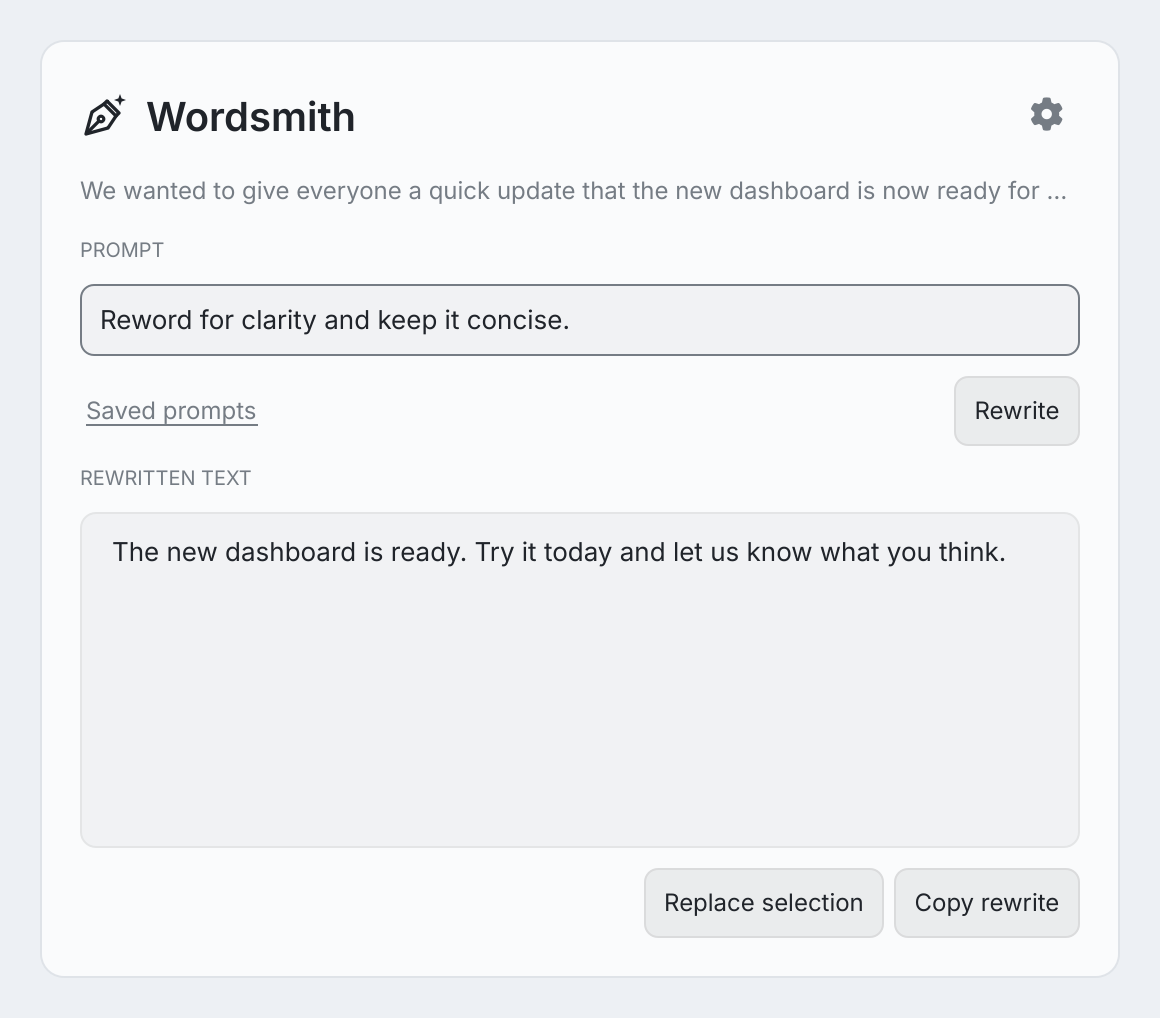
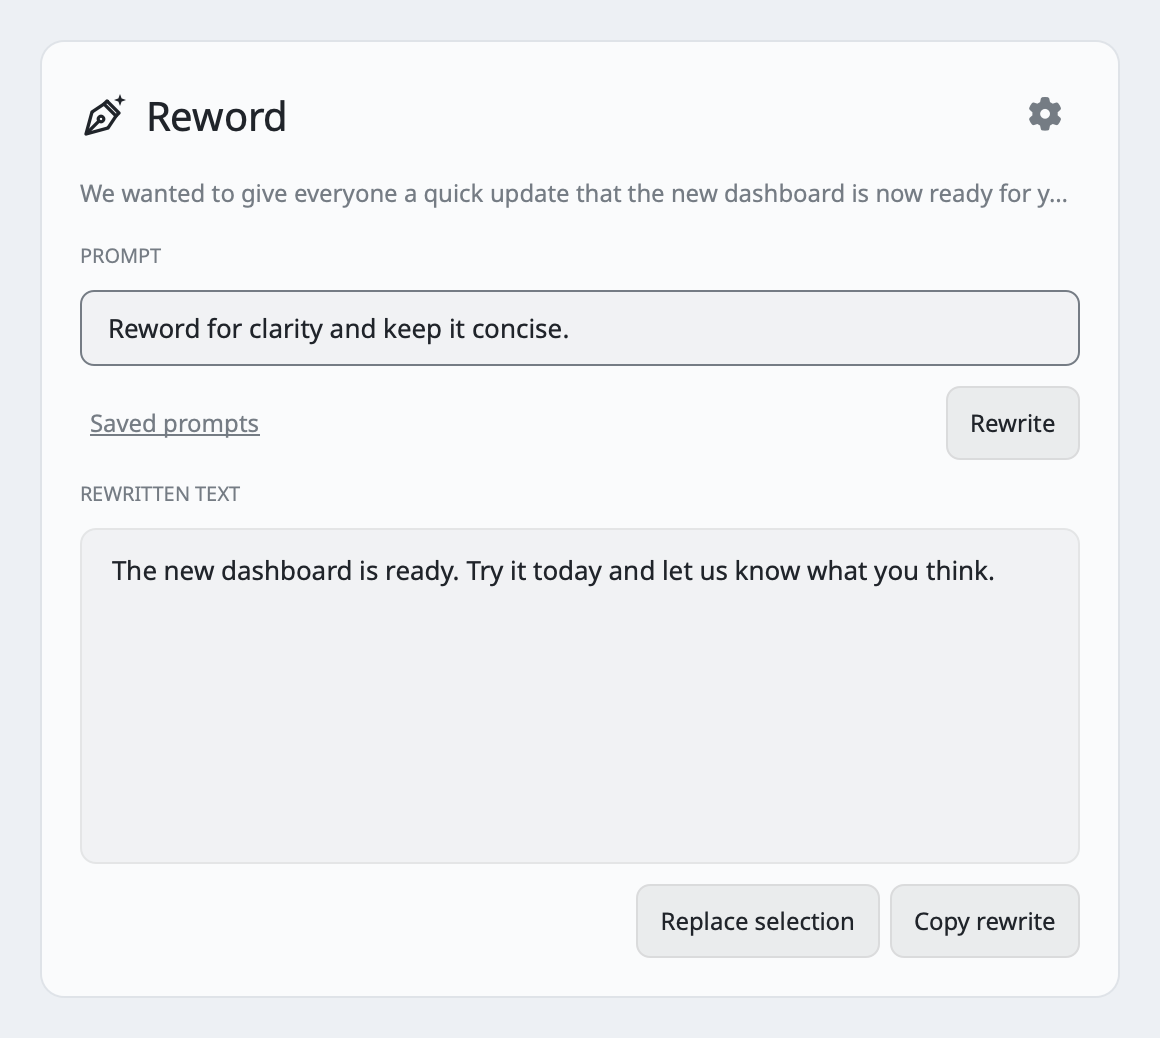
Rename plugin to Reword

diff --git a/Panel.qml b/Panel.qml
@@ -11,7 +11,7 @@ Panel {
     manageIpc: false
     readonly property var editor: bar && bar.shell ? bar.shell.serviceFor(moduleName) : null
     readonly property bool busy: editor && editor.phase !== "idle"
-    readonly property bool useWordsmithIcon: true
+    readonly property bool useRewordIcon: true
     readonly property color ink: Color.popups.text
     readonly property color muted: Color.muted
     property bool showSettings: false
@@ -182,7 +182,7 @@ Panel {
         textFormat: Text.PlainText
         wrapMode: Text.WordWrap
     }
-    component WordsmithIcon: Canvas {
+    component RewordIcon: Canvas {
         property color iconColor: root.ink
         implicitWidth: 24
         implicitHeight: 24
@@ -318,13 +318,13 @@ Panel {
         id: button
         bar: root.bar
         text: ""
-        iconComponent: root.useWordsmithIcon ? wordsmithBarIcon : null
-        tooltipText: "Wordsmith"
+        iconComponent: root.useRewordIcon ? rewordBarIcon : null
+        tooltipText: "Reword"
         onPressed: root.toggle()
     }
     Component {
-        id: wordsmithBarIcon
-        WordsmithIcon {
+        id: rewordBarIcon
+        RewordIcon {
             iconColor: button.active && button.useActiveColor ? button.activeColor : button.foreground
         }
     }
@@ -372,10 +372,10 @@ Panel {
                     Item {
                         Layout.preferredWidth: 24
                         Layout.preferredHeight: 24
-                        WordsmithIcon { anchors.fill: parent; visible: root.useWordsmithIcon }
-                        Label { anchors.centerIn: parent; text: button.text; font.pixelSize: 22; visible: !root.useWordsmithIcon; Accessible.ignored: true }
+                        RewordIcon { anchors.fill: parent; visible: root.useRewordIcon }
+                        Label { anchors.centerIn: parent; text: button.text; font.pixelSize: 22; visible: !root.useRewordIcon; Accessible.ignored: true }
                     }
-                    Label { text: "Wordsmith"; font.pixelSize: 20; font.weight: Font.DemiBold; Layout.fillWidth: true }
+                    Label { text: "Reword"; font.pixelSize: 20; font.weight: Font.DemiBold; Layout.fillWidth: true }
                     Action {
                         id: settingsButton
                         objectName: "settingsButton"
@@ -921,7 +921,7 @@ Panel {
                             }
                             Label {
                                 Layout.fillWidth: true
-                                text: "Keys are saved in a private file on this computer. Wordsmith sends the selected text and prompt to your chosen provider."
+                                text: "Keys are saved in a private file on this computer. Reword sends the selected text and prompt to your chosen provider."
                                 color: root.muted; font.pixelSize: 11
                             }
                             RowLayout {

diff --git a/backend.py b/backend.py
@@ -120,7 +120,7 @@ class Selection:
     def from_clipboard(cls, snapshot):
         text = snapshot.plain_text()
         if not text.strip():
-            raise NoSelectedText("Select text or copy some text, then open Wordsmith.")
+            raise NoSelectedText("Select text or copy some text, then open Reword.")
         if len(text) > MAX_TEXT:
             raise DesktopError("Copy a shorter passage, up to 100,000 characters.")
         return cls(text, "", 0, "", "Clipboard", False)
@@ -172,7 +172,7 @@ class Selection:
         window = active_window()
         if (window.get("address") != self.address or window.get("pid") != self.pid
                 or window.get("stableId", "") != self.stable_id):
-            raise DesktopError("Focus changed. Select the text again and reopen Wordsmith.")
+            raise DesktopError("Focus changed. Select the text again and reopen Reword.")
 
     def chord(self, key):
         self.ensure_focus()

diff --git a/scripts/verify_settings_ui.py b/scripts/verify_settings_ui.py
@@ -20,13 +20,13 @@ app = QGuiApplication([])
 engine = QQmlApplicationEngine()
 errors = []
 engine.warnings.connect(lambda values: errors.extend(error.toString() for error in values))
-with tempfile.TemporaryDirectory(prefix='wordsmith-ui-check-') as directory:
+with tempfile.TemporaryDirectory(prefix='reword-ui-check-') as directory:
     folder = Path(directory)
     for name, value in preview.STUBS.items():
         path = folder / name
         path.parent.mkdir(parents=True, exist_ok=True)
         path.write_text(value)
-    (folder/'WordsmithPanel.qml').write_text((root/'Panel.qml').read_text().replace('import Quickshell\n',''))
+    (folder/'RewordPanel.qml').write_text((root/'Panel.qml').read_text().replace('import Quickshell\n',''))
     scene = preview.SCENE.replace("DEFAULTS_PLACEHOLDER", json.dumps(preview.DEFAULT_INSTRUCTIONS))
     scene = scene.replace('id: sample\n', '''id: sample
   objectName: "sampleService"

diff --git a/scripts/render_preview.py b/scripts/render_preview.py
@@ -111,7 +111,7 @@ Window {
   signal copyFinished(bool failed)
  }
  QtObject { id: sampleBar; property QtObject shell: QtObject { function serviceFor(id) { return sample } } }
- WordsmithPanel {
+ RewordPanel {
   objectName: "previewPanel"
   anchors.fill: parent
   bar: sampleBar
@@ -139,7 +139,7 @@ def main():
             path.parent.mkdir(parents=True, exist_ok=True)
             path.write_text(text)
         panel = (ROOT / 'Panel.qml').read_text().replace('import Quickshell\n', '')
-        (folder / 'WordsmithPanel.qml').write_text(panel)
+        (folder / 'RewordPanel.qml').write_text(panel)
         (folder / 'Preview.qml').write_text(SCENE.replace('DEFAULTS_PLACEHOLDER', json.dumps(DEFAULT_INSTRUCTIONS)))
         engine.addImportPath(str(folder))
         engine.load(QUrl.fromLocalFile(str(folder / 'Preview.qml')))

diff --git a/scripts/check.py b/scripts/check.py
@@ -23,7 +23,7 @@ def main():
     parser.add_argument("--omarchy", action="store_true", help="Require installed Omarchy manifest and QML checks")
     args = parser.parse_args()
     manifest = json.loads((ROOT / "manifest.json").read_text())
-    expected = {"schemaVersion": 1, "id": "io.github.johnloringpollard.rewerd", "name": "Wordsmith", "author": "John Pollard", "license": "MIT"}
+    expected = {"schemaVersion": 1, "id": "io.github.johnloringpollard.rewerd", "name": "Reword", "author": "John Pollard", "license": "MIT"}
     for key, value in expected.items():
         if manifest.get(key) != value:
             raise ValueError(f"Unexpected manifest {key}")

diff --git a/README.md b/README.md
@@ -1,8 +1,8 @@
-# Wordsmith for Omarchy
+# Reword for Omarchy
 
 Rewrite selected text in the Omarchy bar, review the result, then replace the selection or copy the rewrite. Bring your own OpenAI, Claude, or Google Gemini API key. Cursor is optional and uses the Cursor Agent CLI with a key or its existing login.
 
-![Wordsmith panel preview](preview.png)
+![Reword panel preview](preview.png)
 
 Preview rendered from the panel with sample text.
 
@@ -11,14 +11,14 @@ Preview rendered from the panel with sample text.
 Requires Omarchy 4 with the Quattro plugin host, Hyprland 0.56 Lua dispatchers, Python 3, and `wl-copy` and `wl-paste` from `wl-clipboard`. Direct API providers need no Python packages. Cursor additionally requires `cursor-agent` with ask mode and sandbox support. Provider usage may incur charges under your account.
 
 ```sh
-omarchy plugin add https://github.com/johnloringpollard/wordsmith.git --enable
+omarchy plugin add https://github.com/johnloringpollard/reword.git --enable
 ```
 
-Omarchy installs the plugin under `~/.config/omarchy/plugins/io.github.johnloringpollard.rewerd`. Wordsmith has no custom installer and does not edit your Hyprland bindings.
+Omarchy installs the plugin under `~/.config/omarchy/plugins/io.github.johnloringpollard.rewerd`. Reword has no custom installer and does not edit your Hyprland bindings.
 
 ## Set up a provider
 
-1. Click **Wordsmith** in the bar, then the gear icon and **AI provider → Edit**.
+1. Click **Reword** in the bar, then the gear icon and **AI provider → Edit**.
 2. Choose your provider and model. Use **Get your provider API key** to open the provider's key page.
 3. Enter your API key and click **Save** to return to Settings. For Cursor, you can instead authenticate with `cursor-agent login`.
 
@@ -26,7 +26,7 @@ Leave the key field blank to keep a saved key. Use **Remove key** to delete it. 
 
 ## Rewrite text
 
-1. Select text in an application and click **Wordsmith**. Wordsmith captures the selection before the panel takes focus. If there is no selection, it uses plain text from your clipboard.
+1. Select text in an application and click **Reword**. Reword captures the selection before the panel takes focus. If there is no selection, it uses plain text from your clipboard.
 2. Edit the prompt or choose one from **Saved prompts**.
 3. Click **Rewrite** and review the result.
 4. Click **Replace selection** to paste into the original application, or **Copy rewrite** to paste it yourself.
@@ -35,9 +35,9 @@ Press **Escape** or click outside the panel to dismiss it. Click the source prev
 
 With the prompt focused, press **Enter** to rewrite. After the result arrives, press **Enter** again to replace the selection and close. For clipboard input, the second press copies the result and closes. Editing the prompt makes the next **Enter** generate a new rewrite.
 
-Closing the panel keeps the original text and last completed rewrite in memory. Reopen it to compare them again. A different selection or newly copied text starts fresh. Copying the rewrite with Wordsmith does not clear the comparison. Your latest prompt stays in the field.
+Closing the panel keeps the original text and last completed rewrite in memory. Reopen it to compare them again. A different selection or newly copied text starts fresh. Copying the rewrite with Reword does not clear the comparison. Your latest prompt stays in the field.
 
-Wordsmith compares text contents when you reopen it. Copying identical text again does not start a new rewrite. The comparison clears when the plugin or shell restarts. Reopening with the same input keeps a pending rewrite running. Selecting different text or cancelling discards that pending response, but a request already sent may still finish and incur usage.
+Reword compares text contents when you reopen it. Copying identical text again does not start a new rewrite. The comparison clears when the plugin or shell restarts. Reopening with the same input keeps a pending rewrite running. Selecting different text or cancelling discards that pending response, but a request already sent may still finish and incur usage.
 
 After a rewrite finishes, click **Add** beside **Saved prompts** to save the prompt. **Add** appears only when the field matches the prompt used for the latest rewrite. **Remove** deletes a saved prompt without changing the field.
 
@@ -49,7 +49,7 @@ New installations start with these writing defaults, including rewrites made wit
 - Preserve your meaning, voice, language, and useful formatting.
 - Keep facts, names, numbers, and links accurate. Do not invent details.
 - Use clear, concise wording without filler, hype, or unnecessary formality.
-Open **Settings → Writing defaults → Edit** to change this guidance. Save returns to Settings; Back discards changes. Leave the field blank to disable style preferences. Your rewrite prompt can explicitly request a different style. Wordsmith always requests only the complete replacement text and treats the source as data. Existing saved prompts and credentials are kept.
+Open **Settings → Writing defaults → Edit** to change this guidance. Save returns to Settings; Back discards changes. Leave the field blank to disable style preferences. Your rewrite prompt can explicitly request a different style. Reword always requests only the complete replacement text and treats the source as data. Existing saved prompts and credentials are kept.
 
 The stock rewrite prompt is now “Reword for clarity and keep it concise.” Exact older stock drafts are updated when loaded; custom drafts and saved prompts remain unchanged.
 
@@ -58,7 +58,7 @@ The stock rewrite prompt is now “Reword for clarity and keep it concise.” Ex
 Check existing bindings with `omarchy menu keybindings --print`. If **Super+Shift+R** is free, add this line yourself to `~/.config/hypr/bindings.lua`:
 
 ```lua
-o.bind("SUPER + SHIFT + R", "Wordsmith", "omarchy-shell shell summon io.github.johnloringpollard.rewerd '{}'")
+o.bind("SUPER + SHIFT + R", "Reword", "omarchy-shell shell summon io.github.johnloringpollard.rewerd '{}'")
 ```
 
 Select text before using the shortcut. Choose another key combination if that binding is already in use.
@@ -67,17 +67,17 @@ Select text before using the shortcut. Choose another key combination if that bi
 
 Use **Settings → AI provider → Edit** to change your provider, model, or API key. Save returns to Settings.
 
-Wordsmith stores writing defaults, provider settings, and keys in `~/.config/rewerd/settings.json`. Saved prompts and the latest draft live in `~/.config/rewerd/instructions.json`. The directory has mode `0700`, and these files have mode `0600`. Keys are masked in the panel and omitted from public status responses. These files are not encrypted.
+Reword stores writing defaults, provider settings, and keys in `~/.config/rewerd/settings.json`. Saved prompts and the latest draft live in `~/.config/rewerd/instructions.json`. The directory has mode `0700`, and these files have mode `0600`. Keys are masked in the panel and omitted from public status responses. These files are not encrypted.
 
-Clicking **Rewrite** sends your source text and prompt to the selected provider. Wordsmith does not save a source-text or response history. Your prompts are saved locally. Clipboard managers and providers may retain their own records.
+Clicking **Rewrite** sends your source text and prompt to the selected provider. Reword does not save a source-text or response history. Your prompts are saved locally. Clipboard managers and providers may retain their own records.
 
 Cursor runs in ask mode in a temporary workspace with sandboxing enabled and restrictive workspace permissions. It also loads its user-level configuration and may keep CLI session records. Omarchy plugins themselves run unsandboxed with your user account's access.
 
-Wordsmith uses the clipboard to capture and replace text. Copying a rewrite changes the clipboard. Review sensitive selections before sending them to a provider.
+Reword uses the clipboard to capture and replace text. Copying a rewrite changes the clipboard. Review sensitive selections before sending them to a provider.
 
 ## Replacement limits
 
-Replacement requires an editable field with standard **Ctrl+C** and **Ctrl+V** support. Wordsmith checks the source window and recaptures its selection before pasting. A changed selection stops replacement. Terminal replacement is disabled, and static page text cannot be edited. Edits are plain text and can lose rich formatting. Use the application's Undo command to reverse a replacement.
+Replacement requires an editable field with standard **Ctrl+C** and **Ctrl+V** support. Reword checks the source window and recaptures its selection before pasting. A changed selection stops replacement. Terminal replacement is disabled, and static page text cannot be edited. Edits are plain text and can lose rich formatting. Use the application's Undo command to reverse a replacement.
 
 No automatic migration imports credentials from older development copies. Configure this release through its Settings panel.
 

diff --git a/PUBLISHING.md b/PUBLISHING.md
@@ -1,8 +1,8 @@
-# Release Wordsmith
+# Release Reword
 
-The review repository is `johnloringpollard/wordsmith`. Keep it private and keep the GitHub release in draft until the owner finishes reviewing it. A GitHub draft release is separate from an Omarchy marketplace listing. The marketplace has no documented unpublished listing editor.
+The public repository is `johnloringpollard/reword`. Prepare releases as drafts until their files and checks have been reviewed. A GitHub release is separate from an Omarchy marketplace listing.
 
-The display name is Wordsmith. Its stable plugin ID remains `io.github.johnloringpollard.rewerd`, and settings remain in `~/.config/rewerd/`. The existing development installation uses `john.edit-ai` and `~/.config/omarchy/edit-ai/`; its runtime code and built-in defaults match the release after substituting those two identifiers.
+The display name is Reword. Its stable plugin ID remains `io.github.johnloringpollard.rewerd`, and settings remain in `~/.config/rewerd/`. The existing development installation uses `john.edit-ai` and `~/.config/omarchy/edit-ai/`; its runtime code and built-in defaults match the release after substituting those two identifiers.
 
 ## Verify the review build
 
@@ -24,22 +24,16 @@ The preview uses sample text. Never upload screenshots containing personal selec
 Commit the reviewed changes and push them to `main`. Keep the release draft pinned to the full commit SHA that produced its attached archive. Upload the archive, checksum, and sample-data screenshots together. If they change, replace the existing draft assets and update the target SHA.
 
 ```sh
-gh release view v1.0.0 --repo johnloringpollard/wordsmith
+gh release view v1.0.1 --repo johnloringpollard/reword
 ```
 
-Use `RELEASE_NOTES.md` as the release body. The archive is named `rewerd-1.0.0.tar.gz` to match the existing packaging contract; the release title is **Wordsmith 1.0.0**.
+Use `RELEASE_NOTES.md` as the release body. The archive is named `rewerd-1.0.1.tar.gz` to match the existing packaging contract; the release title is **Reword 1.0.1**.
 
-## Publish later
-
-After the owner approves publication:
+## Publish a verified release
 
 1. Recheck the repository contents and release assets.
-2. Make the repository public.
-3. Publish the draft release.
-4. Prepare the marketplace submission below and review every acknowledgment with the owner.
-5. Submit only after the owner approves the completed issue body.
-
-Do not submit an issue merely to reserve an unpublished listing. Marketplace approval can lead to publication.
+2. Publish the draft after the owner authorizes the release.
+3. Update the [existing marketplace submission](https://github.com/omacom/omarchy-plugin-marketplace/issues/9678) with the verified commit and current repository URL. Do not create a duplicate submission.
 
 ## Marketplace submission
 
@@ -49,8 +43,8 @@ Use these values:
 
 | Field | Value |
 | --- | --- |
-| Title | `[Plugin]: Wordsmith` |
-| Repository URL | `https://github.com/johnloringpollard/wordsmith` |
+| Title | `[Plugin]: Reword` |
+| Repository URL | `https://github.com/johnloringpollard/reword` |
 | Category | `Productivity` |
 | Tags | `AI`, `Bar`, `Quickshell` |
 | Suggest a missing tag | Leave empty |

diff --git a/RELEASE_NOTES.md b/RELEASE_NOTES.md
@@ -1,8 +1,10 @@
-# Wordsmith 1.0.0
+# Reword 1.0.1
+
+Renamed the plugin to Reword. Existing settings, saved prompts, and keyboard shortcuts keep working.
 
 Rewrite selected or copied text in a small Omarchy panel using your own OpenAI, Claude, Google Gemini, or Cursor account.
 
-- Select text in your browser, Omawrite, or another application. If nothing is selected, Wordsmith uses plain text from the clipboard.
+- Select text in your browser, Omawrite, or another application. If nothing is selected, Reword uses plain text from the clipboard.
 - Adjust the prompt, review the rewrite, then replace the selection or copy the result.
 - Save prompts and automatically reuse the last prompt.
 - Edit shared writing defaults in Settings: no em dashes, rare emojis, preserved meaning and voice, accurate details, and concise wording. Explicit style requests take priority.
@@ -19,8 +21,8 @@ The release includes an MIT license, a preview rendered from the panel with samp
 ## Verification
 
 - 63 Python tests and 53 QML JavaScript behavior tests pass without provider requests.
-- Omarchy manifest validation and QML lint complete successfully. Lint reports existing dynamic-shell type and unqualified-access warnings.
+- Installed Omarchy manifest validation and QML lint were not repeated on the macOS release machine.
 - Settings UI checks cover navigation, saved and canceled drafts, failure handling, and keyboard focus.
-- The actual QML panel renders offscreen; preview interaction checks cover expansion, scrolling, and keyboard toggles. A gated local response also verifies that reopening during generation displays the completed response and preserves it on another reopen.
+- The actual QML panel renders offscreen; preview interaction checks cover expansion, scrolling, and keyboard toggles.
 
 Live paid provider requests and the full lifecycle in a separate real desktop session have not been repeated for this package.
